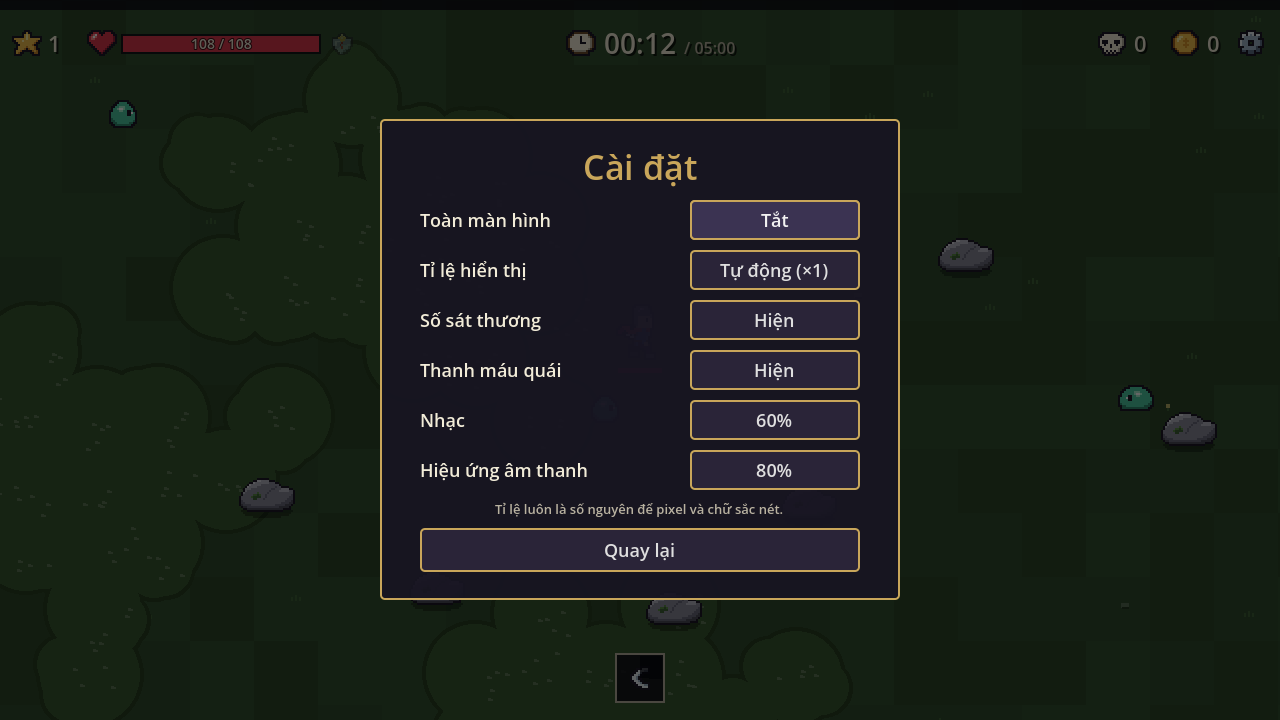
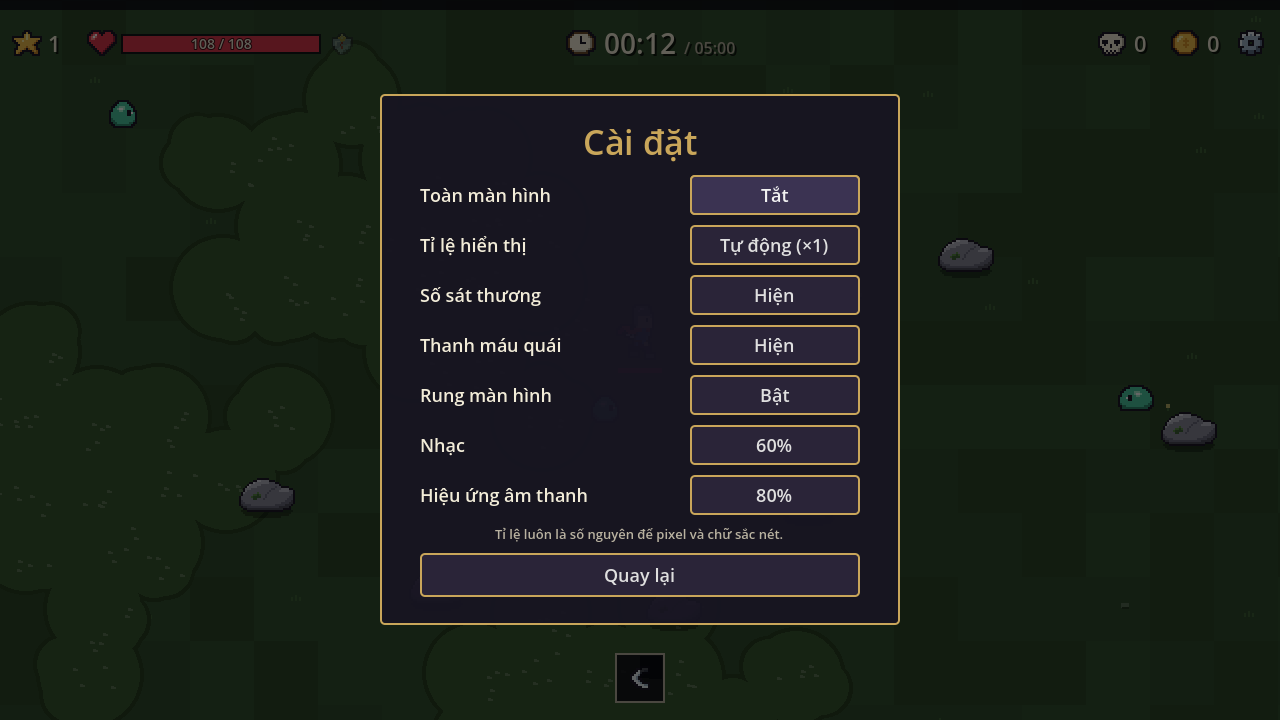
feat(run): crits with orange numbers, hitstop and screen shake
Direct hits crit at run_config crit.chance (5%) plus crit_chance effects
for crit.mul (x1.75) plus crit_mul; damage over time, shock spread and
events never crit. Crit numbers draw 1.4x larger, orange, with "!". A
crit on an elite or boss holds the world 0.035 s and shakes 2 px; the
hero hurt shakes by the damage taken (2..7 px). Cài đặt gains Rung màn
hình, read every frame so the pause menu can turn it off mid-run.
Crit rolls use their own RNG: drawn from the spawn RNG they shifted
every later spawn, and the seeded demo run played out differently
(23 kills at 0:39 became 4); crit_test pins it.

Verified: crit_test failed first (no crit), the RNG regression test failed with the shared RNG then passed; gamekit test: 303 passed, 0 failed; demo run back to 23 kills at 0:39; shots evidence/crit/01-crit-numbers-at-50pct.png (chance raised for the shot only), 02-settings-shake.png
Design: design/gameplay-rules.md

Changed region(s): [[0.3125, 0.1528, 0.6875, 0.8861]]

diff --git a/design/gameplay-rules.md b/design/gameplay-rules.md
@@ -69,3 +69,16 @@ Luật dưới đây là **bắt buộc khi thiết kế**; số liệu nằm tr
   - `pull`: kéo quái trong vùng về tâm (`strength` px/s) trong lúc frame gây sát thương chạy, trừ boss. Hiện
     chưa chiêu nào dùng (Bão tuyết không kéo vì đã làm chậm, người dùng 2026-11-18).
 - Kỹ năng sau này gây sát thương duy trì và để lại vệt trên sân thì nên có `zone` tương ứng.
+
+## Chí mạng, khựng hình, rung màn (6C.2, 2026-11-19)
+
+Tham khảo: Brotato ([Crit Chance](https://brotato.wiki.spellsandguns.com/Crit_Chance), [Stats](https://brotato.wiki.spellsandguns.com/Stats)): chí mạng cơ
+bản 3% × 2, thẻ cộng thêm tỉ lệ; Vlambeer, "The Art of Screenshake" ([Game Developer](https://gamedeveloper.com/design/vlambeer-co-founder-shares-advice-on-building-better-action-games),
+[Infovore: Making game feel](https://infovore.org/?p=5275)): khựng hình 2–5 khung khi đòn trúng mạnh, rung màn theo lực.
+**Quyết định** (số liệu `run_config.json` crit):
+- Đòn **trực tiếp** (mọi `hit_box`) chí mạng với tỉ lệ `chance` (5%) + hiệu ứng `crit_chance`, sát thương × `mul` (1,75) +
+  `crit_mul`; sát thương theo thời gian (chảy máu, bỏng), giật lan và sự kiện (`event.*`) không chí mạng.
+- Tung xúc xắc chí mạng bằng **bộ sinh số riêng**: không làm lệch lịch sinh quái (lỗi gặp khi làm: dùng chung thì một trận
+  có chí mạng diễn ra khác hẳn; chặn bằng test `crit_test`).
+- Số chí mạng to ×1,4, màu cam, có "!". Chí mạng trúng **tinh anh / boss**: khựng hình 0,035 s + rung 2 px. Người chơi
+  trúng đòn: rung `sát thương × 0,25` px (2–7). Tắt rung: Cài đặt → **Rung màn hình**.

diff --git a/production/upgrade-plan.md b/production/upgrade-plan.md
@@ -44,14 +44,14 @@ sóng xung kích mỗi cú dậm). Nhịp sóng có báo trước (`announce`). 
 
 ### 6C · Gameplay
 1. **Tiến hoá chiêu**: chiêu cấp tối đa + thẻ chỉ số phù hợp → bản tiến hoá (hình mới, cơ chế mới), mở trong rương.
-2. **Chí mạng** + khựng hình nhẹ / rung màn (đợt 2 còn nợ).
+2. ✓ **Chí mạng** + khựng hình nhẹ / rung màn (2026-11-19, `design/gameplay-rules.md`).
 3. **Đổi / bỏ / bỏ qua thẻ** khi lên cấp (số lượt giới hạn) để build có chủ đích.
 4. **Hồi máu nhặt được** (thịt / bình) rơi từ vật cản phá được.
 5. Mở rộng 100 ải (5 vùng × 20) sau khi 6A–6B ổn ở 3 vùng đầu; mô phỏng cân bằng headless.
 
 ### 6D · Giao diện và cảm giác
 1. ✓ (2026-11-19, `design/ux/hud.md`) Trong trận: mũi tên chỉ boss / tinh anh ngoài màn, thanh máu boss lớn trên đỉnh màn, báo đợt quái.
-2. Hiệu ứng: ✓ lật thẻ khi lên cấp (2026-11-19); ✓ quay gacha theo độ hiếm (2026-11-19); còn số sát thương chí mạng (cần 6C.2 chí mạng).
+2. Hiệu ứng: ✓ lật thẻ khi lên cấp (2026-11-19); ✓ quay gacha theo độ hiếm (2026-11-19); ✓ số sát thương chí mạng (2026-11-19).
 3. ✓ Màn kết quả: sát thương từng chiêu (biểu đồ), thời gian sống, quái hạ, phần thưởng (đã có; 2026-11-19 sửa tên nguồn sự kiện).
 4. Icon chiêu / thẻ 24 px như icon trang bị (đồng bộ, không méo).
 
